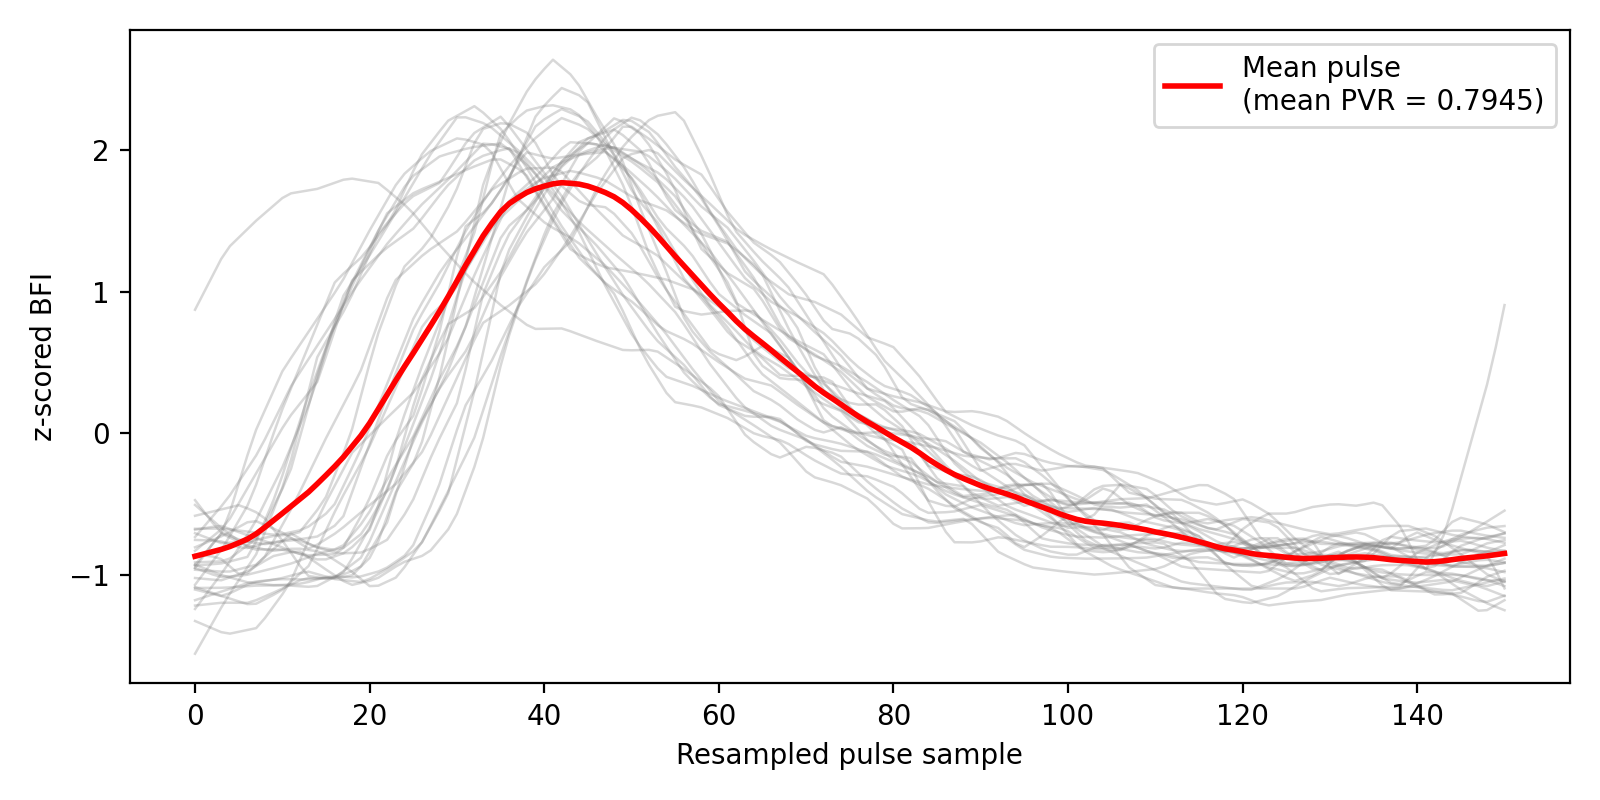
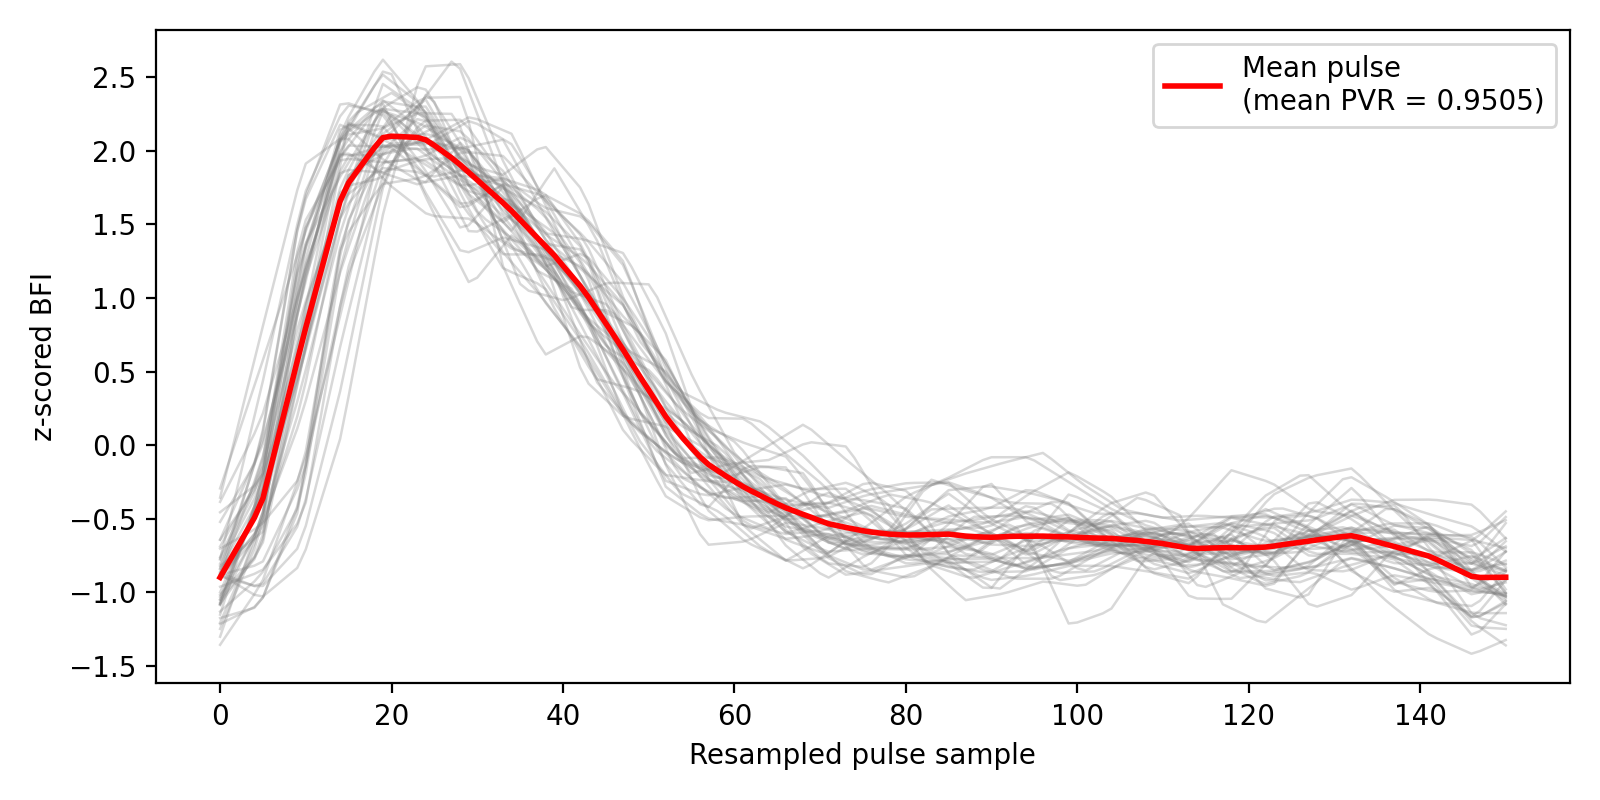
working_version

diff --git a/README.md b/README.md
@@ -61,7 +61,7 @@ From the repository root, using the bundled example files and a sampling rate th
 poetry run python -m pvr_calculation.examples.run_segmentation_and_pvr_calculation \
     --bfi pvr_calculation/data/time_series_data/bfi.npy \
     --abp pvr_calculation/data/time_series_data/abp.npy \
-    --fs 47.62
+    --fs 47.68
 ```
 
 If you omit **`--outdir`**, outputs go to **`./pvr_calculation/data/segmentation_and_pvr_results/`** (under the same directory you run from — keep your cwd at the repository root so that path matches the layout above).
@@ -73,7 +73,7 @@ If you omit **`--outdir`**, outputs go to **`./pvr_calculation/data/segmentation
 | `--fs` | yes | Sampling rate of both signals (Hz) |
 | `--outdir` | no | Output directory (default: `./pvr_calculation/data/segmentation_and_pvr_results` relative to cwd) |
 | `--tof_ix` | no | TOF index for multi-TOF BFI alignment (default: `6`) |
-| `--n-pulses` | no | Pulses per PVR estimate, 1-D and 3-D BFI (default: `10`) |
+| `--n-pulses` | no | Pulses per PVR estimate, 1-D and 2-D BFI (default: `10`) |
 | `--figure-name` | no | PNG filename under `data/figures/` (default: `<bfi_stem>_segmented_pulses_mean_pvr.png`) |
 | `--no-figure` | no | Skip writing the figure |
 
